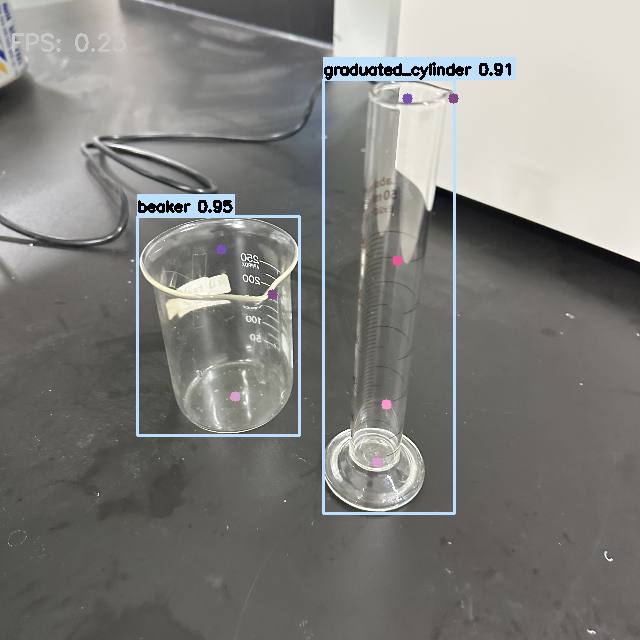
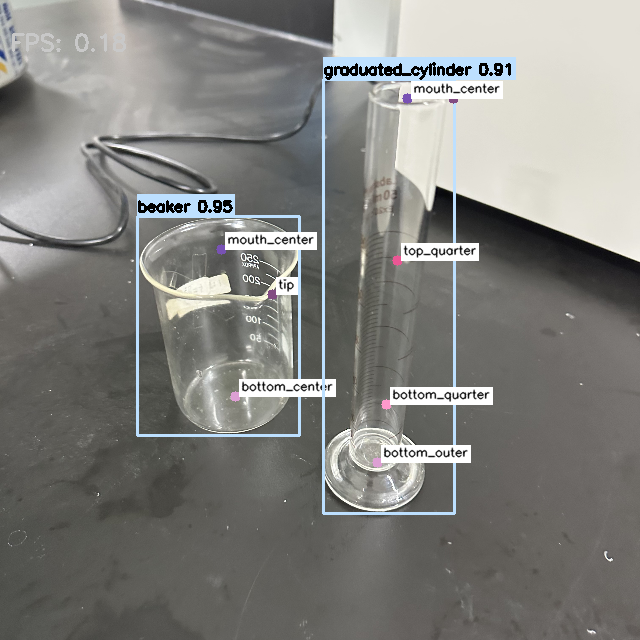
咕咕嘎嘎🐧

diff --git a/vessel_detect/vessel_cascade.py b/vessel_detect/vessel_cascade.py
@@ -209,5 +209,5 @@ class VesselCascadeDetector:
 
 # 示例用法
 if __name__ == "__main__":
-    detector = VesselCascadeDetector()
+    detector = VesselCascadeDetector(show_kpt_names=True)
     detector.debug_image_predict("examples/test/vessels_test.png")
